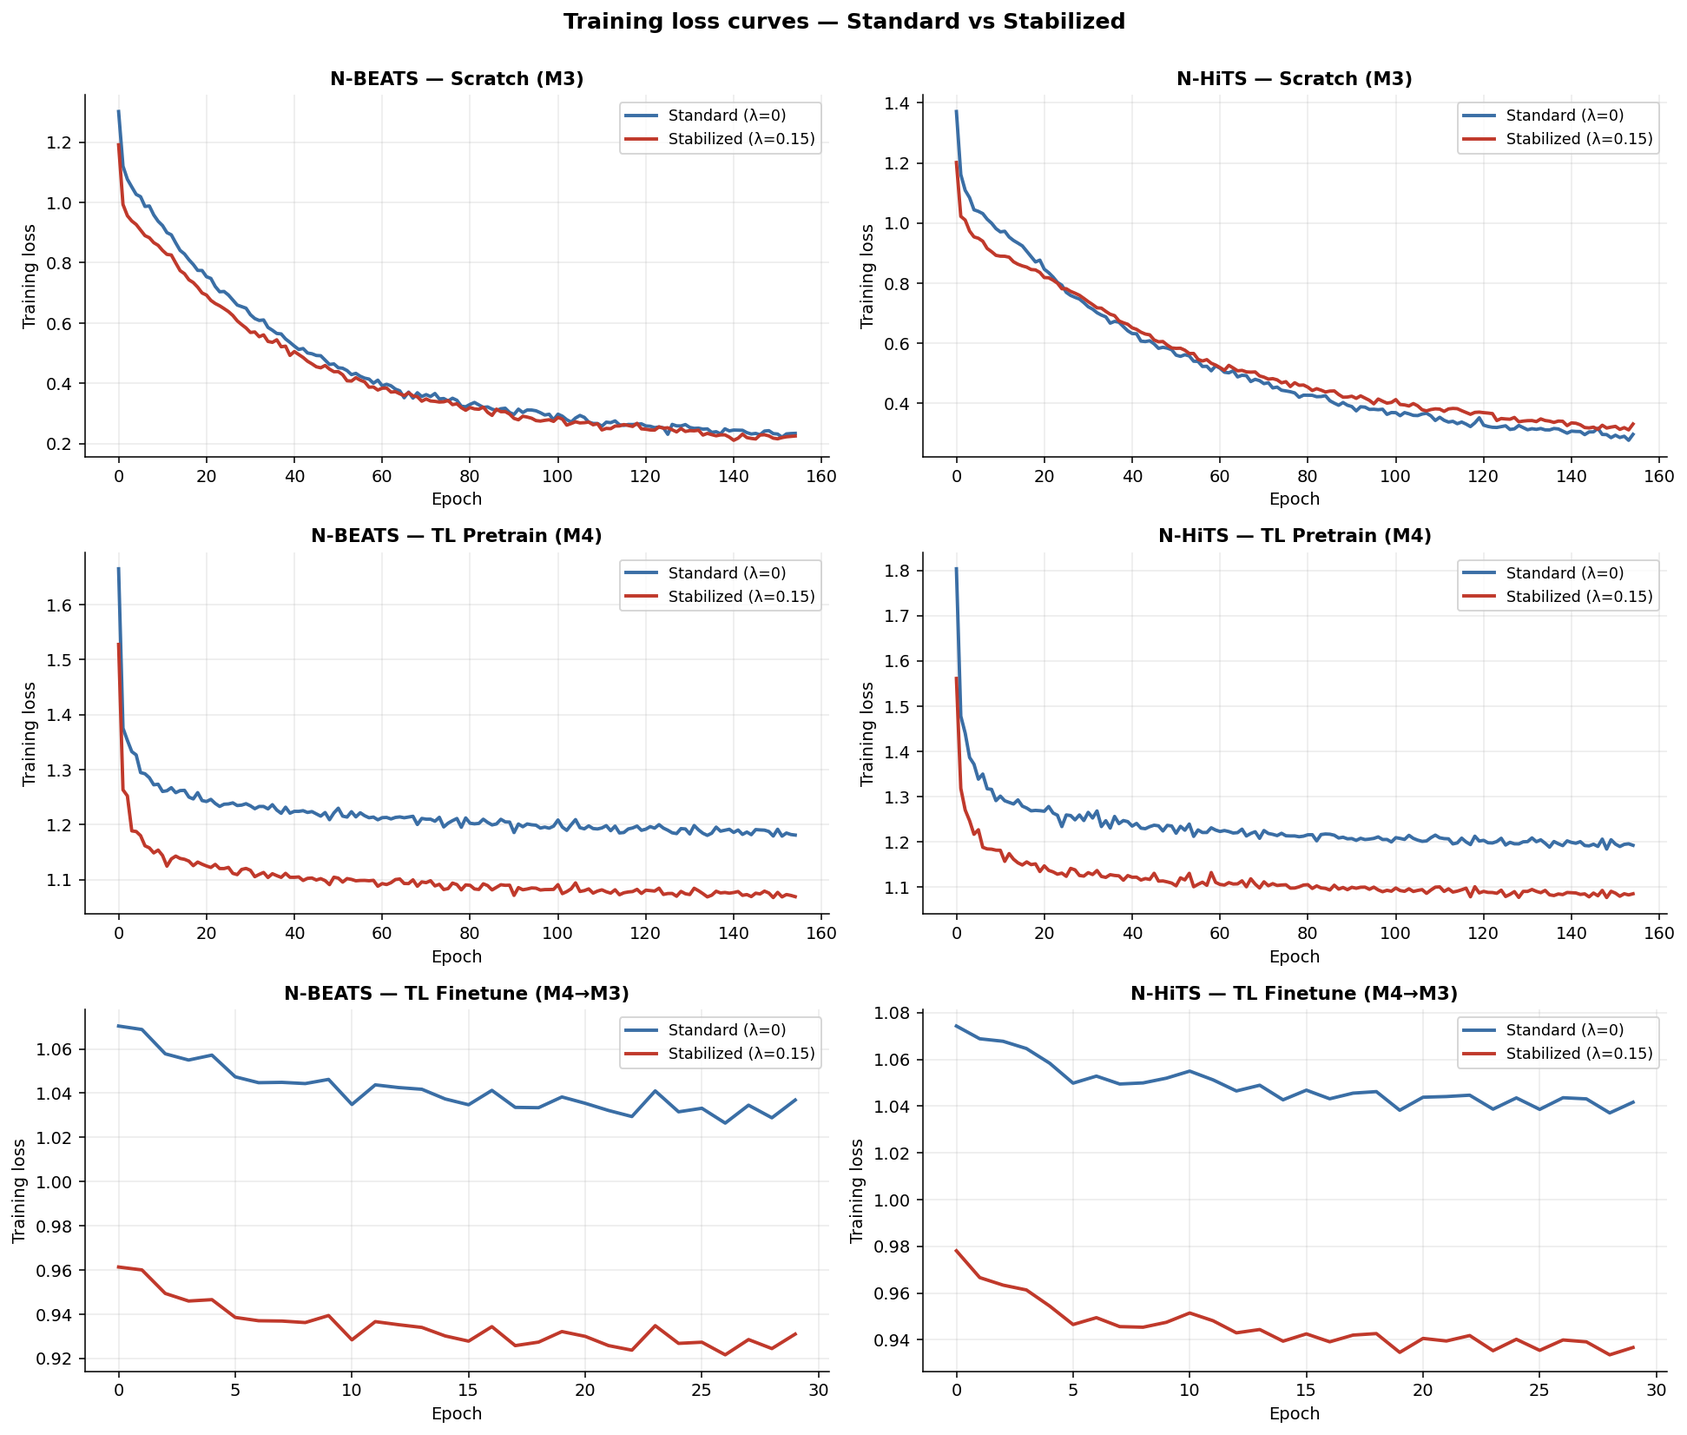
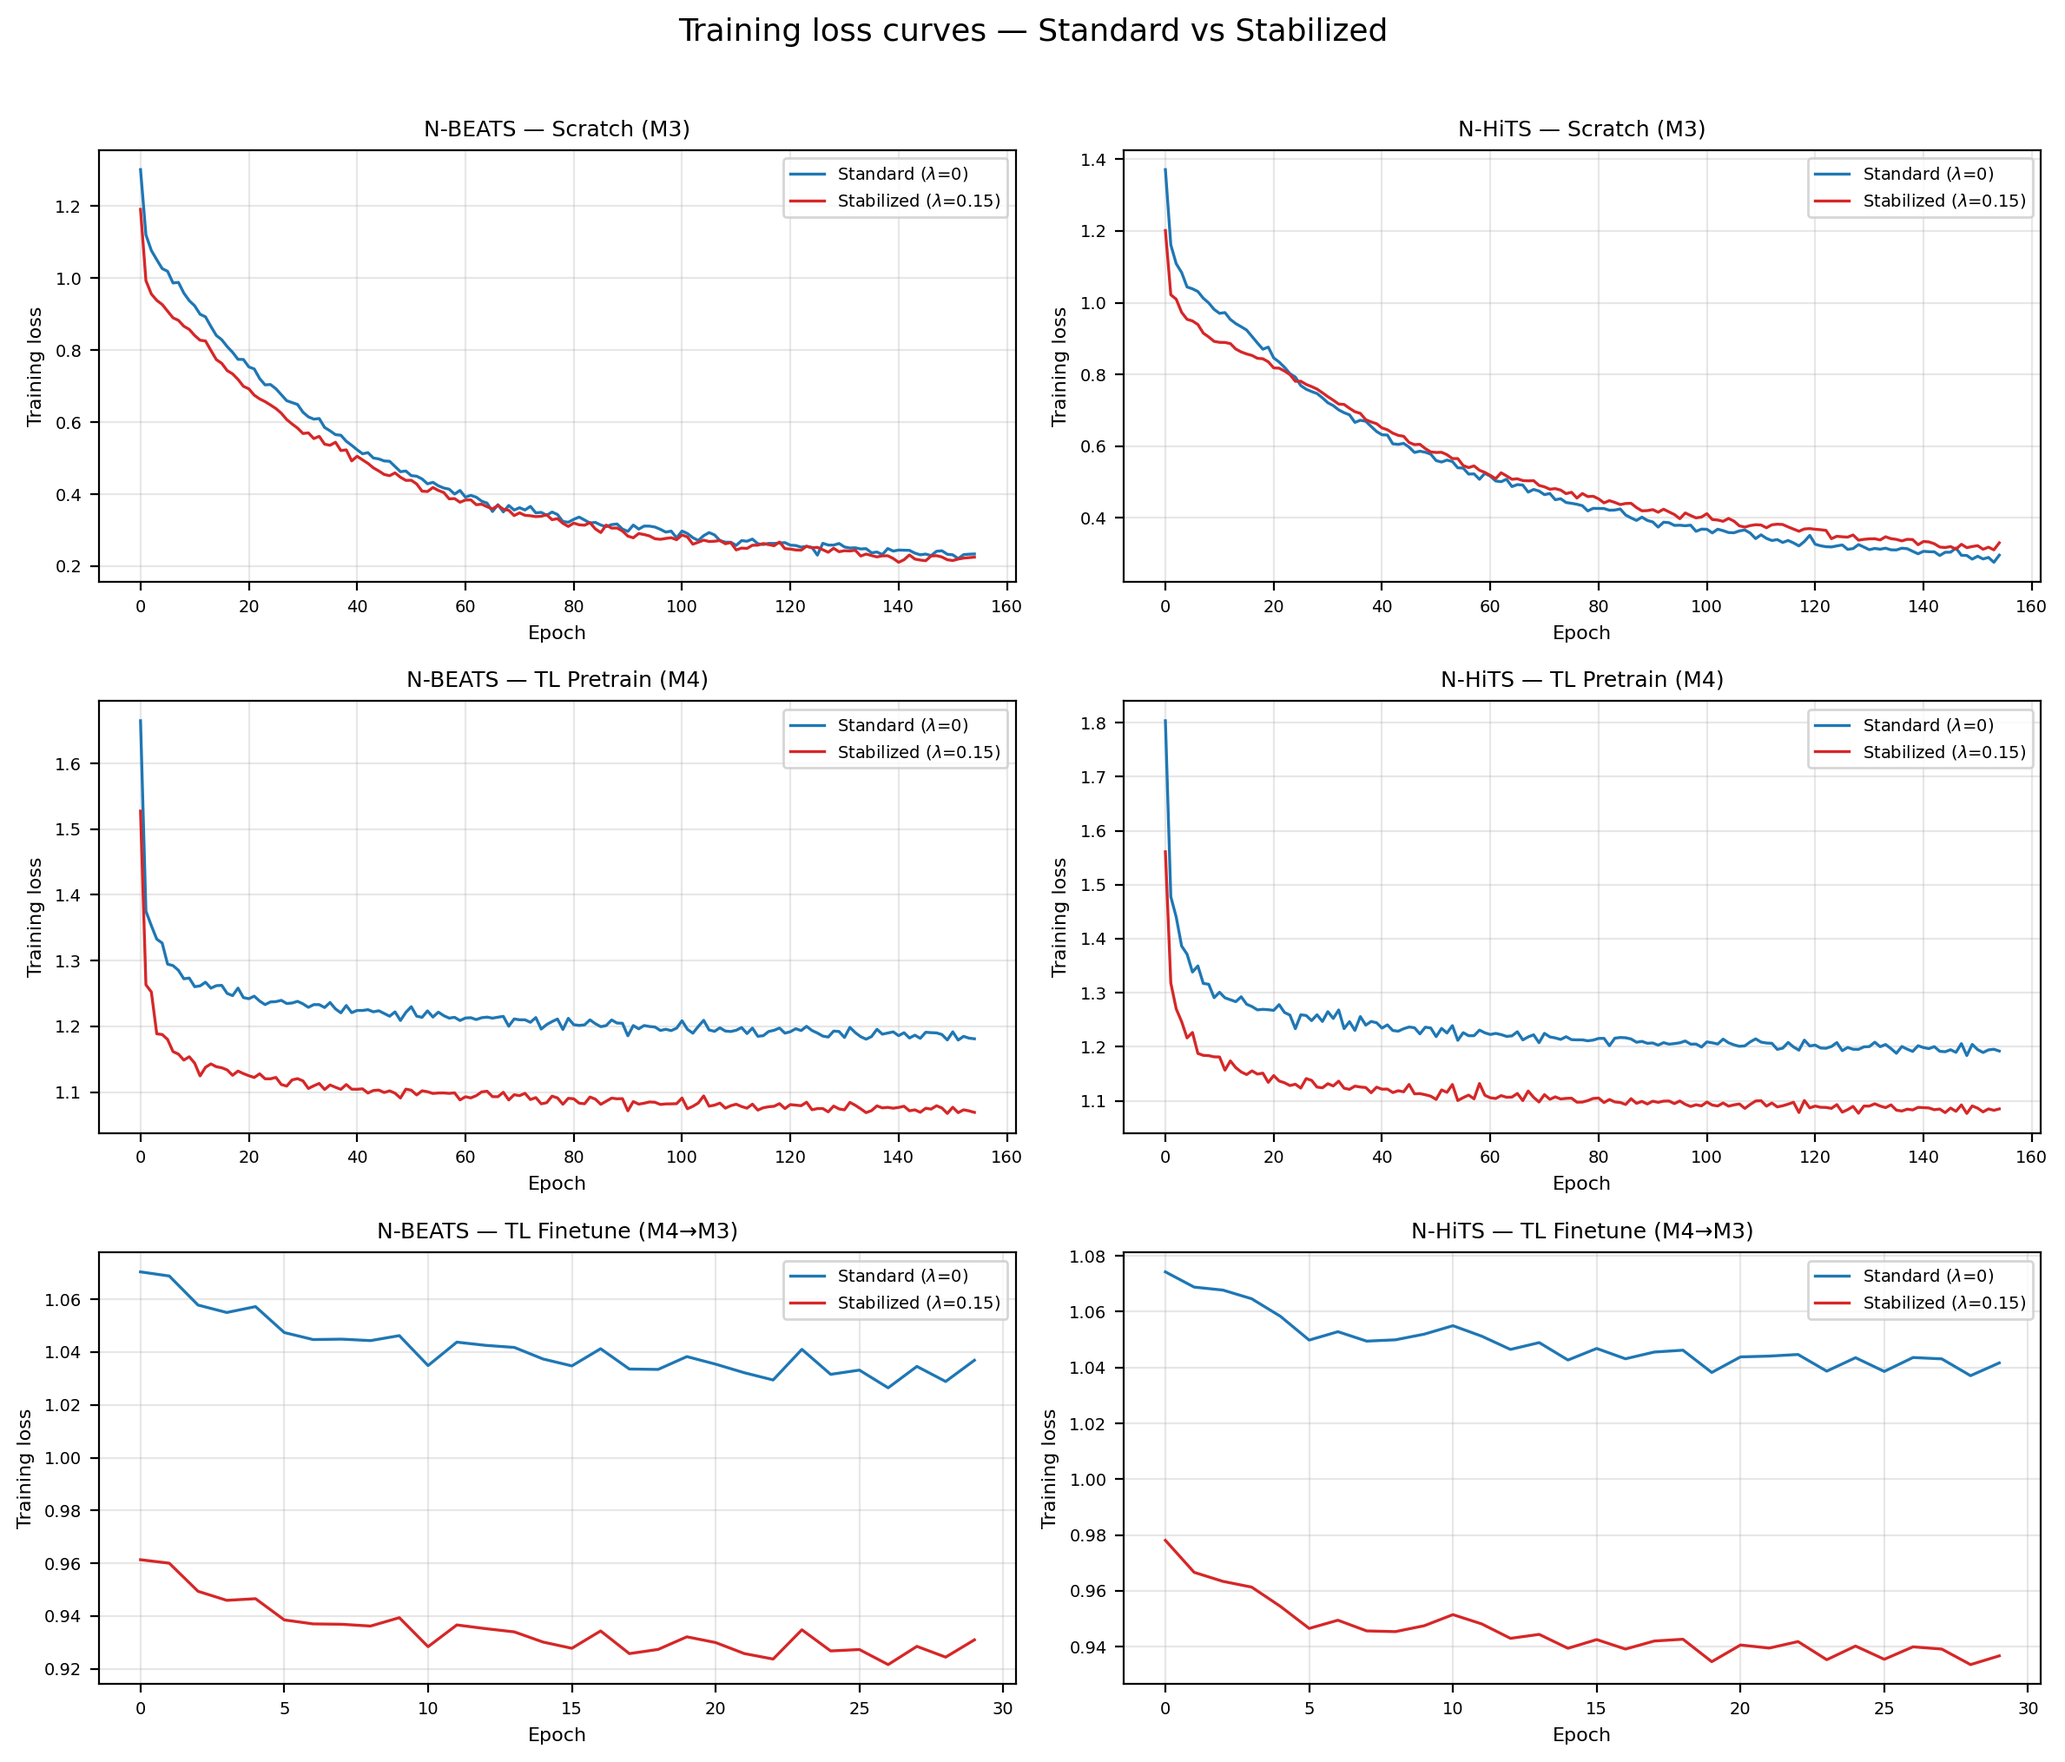
B1: add reproducing scripts for all 4 orphaned thesis figures
fig_training_loss.png        <- generate_training_loss_fig.py
fig_loss_decomposition.png   <- generate_loss_decomposition_fig.py
fig_validation_curves.png    <- generate_validation_curves_fig.py
fig_mcb_critical_difference.png <- generate_mcb_cd_fig.py

All scripts read from committed CSVs (loss_curve_*.csv, val_curve_*.csv,
mcb_results.csv) — no re-training needed. Figures regenerated to confirm
reproducibility; layout/data identical to originals.

diff --git a/NBEATSS_thesis/generate_mcb_cd_fig.py b/NBEATSS_thesis/generate_mcb_cd_fig.py
@@ -1,0 +1,90 @@
+"""
+Reads mcb_results.csv (committed) and produces fig_mcb_critical_difference.png:
+2x2 grid of MCB Critical Difference plots for sMAPE, RMSSE, sMAPC, RMSSC.
+Methods sorted by mean_rank (best = lowest rank, plotted at top).
+Red: tied with best (within CD). Blue: not tied.
+"""
+import csv
+from pathlib import Path
+import matplotlib
+matplotlib.use('Agg')
+import matplotlib.pyplot as plt
+import matplotlib.patches as mpatches
+
+BASE = Path(__file__).parent
+OUT = BASE / "fig_mcb_critical_difference.png"
+MCB_CSV = BASE / "mcb_results.csv"
+
+METRICS = ["sMAPE", "RMSSE", "sMAPC", "RMSSC"]
+GRID = [(0, 0), (0, 1), (1, 0), (1, 1)]
+
+
+def load_mcb(metric):
+    rows = []
+    with open(MCB_CSV) as f:
+        for r in csv.DictReader(f):
+            if r["metric"] == metric:
+                rows.append({
+                    "method": r["method"],
+                    "mean_rank": float(r["mean_rank"]),
+                    "diff_from_best": float(r["diff_from_best"]),
+                    "tied_with_best": r["tied_with_best"].strip().lower() == "true",
+                    "CD": float(r["CD"]),
+                    "N": int(r["N"]),
+                    "k": int(r["k"]),
+                })
+    rows.sort(key=lambda x: x["mean_rank"])
+    return rows
+
+
+def plot_cd(ax, rows, metric):
+    cd = rows[0]["CD"]
+    n = rows[0]["N"]
+    k = rows[0]["k"]
+    best_rank = rows[0]["mean_rank"]
+
+    ax.set_title(f"{metric}  (CD = {cd:.4f}, α = 0.05, N = {n:,}, k = {k})", fontsize=8.5)
+    ax.set_xlabel("Mean rank (lower is better)", fontsize=8)
+    ax.tick_params(labelsize=7)
+    ax.yaxis.set_visible(False)
+    ax.spines["left"].set_visible(False)
+    ax.spines["right"].set_visible(False)
+    ax.spines["top"].set_visible(False)
+
+    color_tied = "#d62728"
+    color_other = "#1f77b4"
+
+    y_positions = list(range(len(rows) - 1, -1, -1))
+    for i, row in enumerate(rows):
+        y = y_positions[i]
+        color = color_tied if row["tied_with_best"] else color_other
+        ax.plot(row["mean_rank"], y, "o", color=color, markersize=6, zorder=3)
+        ax.plot([row["mean_rank"] - cd / 2, row["mean_rank"] + cd / 2],
+                [y, y], "-", color=color, linewidth=1.5, alpha=0.7)
+        ax.text(row["mean_rank"], y + 0.35, row["method"],
+                ha="center", va="bottom", fontsize=6.5)
+
+    ax.axvline(best_rank, color="green", linewidth=1, linestyle="--", alpha=0.6,
+               label=f"Best = {best_rank:.2f}")
+    ax.axvline(best_rank + cd, color="orange", linewidth=1, linestyle="--", alpha=0.6,
+               label=f"Best + CD = {best_rank + cd:.2f}")
+    ax.legend(fontsize=6.5, loc="lower right")
+    ax.grid(axis="x", alpha=0.25)
+
+    margin = cd * 1.5
+    all_ranks = [r["mean_rank"] for r in rows]
+    ax.set_xlim(min(all_ranks) - margin, max(all_ranks) + margin)
+    ax.set_ylim(-1, len(rows) + 0.5)
+
+
+fig, axes = plt.subplots(2, 2, figsize=(14, 10))
+fig.suptitle("MCB Critical Difference Plots — All Methods (12 conditions)", fontsize=12)
+
+for metric, (r, c) in zip(METRICS, GRID):
+    rows = load_mcb(metric)
+    plot_cd(axes[r][c], rows, metric)
+
+plt.tight_layout()
+plt.savefig(str(OUT), dpi=200, bbox_inches="tight", facecolor="white")
+plt.close()
+print(f"Saved: {OUT}")

diff --git a/NBEATSS_thesis/generate_validation_curves_fig.py b/NBEATSS_thesis/generate_validation_curves_fig.py
@@ -1,0 +1,75 @@
+"""
+Reads val_curve_*_validation.csv (committed W&B exports) and produces
+fig_validation_curves.png:
+2x2 grid — N-BEATS Scratch Stabilized (left) and N-HiTS Scratch Stabilized (right).
+Top row:    Training loss vs Validation loss (total).
+Bottom row: Validation loss decomposition (accuracy, stability, total).
+Title: "Training vs Validation Loss — Scratch Stabilized (155 epochs, eval_mode=validation)"
+"""
+import csv
+from pathlib import Path
+import matplotlib
+matplotlib.use('Agg')
+import matplotlib.pyplot as plt
+
+BASE = Path(__file__).parent
+OUT = BASE / "fig_validation_curves.png"
+
+MODELS = [
+    ("N-BEATS Scratch Stabilized", "val_curve_NBEATS_Scratch_Stabilized_validation.csv"),
+    ("N-HiTS Scratch Stabilized",  "val_curve_NHITS_Scratch_Stabilized_validation.csv"),
+]
+
+
+def load_val_curve(csv_path):
+    train_ep, train_loss = [], []
+    val_ep, val_total, val_acc, val_stab = [], [], [], []
+    with open(csv_path) as f:
+        for row in csv.DictReader(f):
+            if row.get("tloss_epoch", "").strip():
+                train_ep.append(int(float(row["epoch"])))
+                train_loss.append(float(row["tloss_epoch"]))
+            if row.get("vloss", "").strip():
+                val_ep.append(int(float(row["epoch"])))
+                val_total.append(float(row["vloss"]))
+                val_acc.append(float(row["vloss_a"]))
+                val_stab.append(float(row["vloss_s"]))
+    return train_ep, train_loss, val_ep, val_total, val_acc, val_stab
+
+
+fig, axes = plt.subplots(2, 2, figsize=(12, 9))
+fig.suptitle(
+    "Training vs Validation Loss — Scratch Stabilized (155 epochs, eval_mode=validation)",
+    fontsize=11, y=1.01
+)
+
+for col, (model_name, csv_name) in enumerate(MODELS):
+    train_ep, train_loss, val_ep, val_total, val_acc, val_stab = load_val_curve(BASE / csv_name)
+
+    # Top: training vs validation total loss
+    ax = axes[0][col]
+    ax.set_title(f"{model_name}\nTraining vs Validation", fontsize=9)
+    ax.plot(train_ep, train_loss, color="#1f77b4", linewidth=1.2, label="Training loss")
+    ax.plot(val_ep,   val_total,  color="#d62728", linewidth=1.2, label="Validation loss")
+    ax.set_xlabel("Epoch", fontsize=8)
+    ax.set_ylabel("Total loss", fontsize=8)
+    ax.tick_params(labelsize=7)
+    ax.legend(fontsize=7)
+    ax.grid(True, alpha=0.3)
+
+    # Bottom: validation decomposition
+    ax = axes[1][col]
+    ax.set_title(f"{model_name}\nValidation loss decomposition", fontsize=9)
+    ax.plot(val_ep, val_acc,   color="#1f77b4", linewidth=1.2, label="Validation accuracy loss")
+    ax.plot(val_ep, val_stab,  color="#d62728", linewidth=1.2, label="Validation stability loss")
+    ax.plot(val_ep, val_total, color="black",   linewidth=1.2, linestyle="--", label="Validation total loss")
+    ax.set_xlabel("Epoch", fontsize=8)
+    ax.set_ylabel("Validation loss", fontsize=8)
+    ax.tick_params(labelsize=7)
+    ax.legend(fontsize=7)
+    ax.grid(True, alpha=0.3)
+
+plt.tight_layout()
+plt.savefig(str(OUT), dpi=200, bbox_inches="tight", facecolor="white")
+plt.close()
+print(f"Saved: {OUT}")

diff --git a/NBEATSS_thesis/generate_training_loss_fig.py b/NBEATSS_thesis/generate_training_loss_fig.py
@@ -1,0 +1,69 @@
+"""
+Reads loss_curve_*.csv (committed W&B exports) and produces fig_training_loss.png:
+2x3 grid — Standard (lambda=0) vs Stabilized (lambda=0.15) training loss per epoch.
+Rows: Scratch (M3), TL Pretrain (M4), TL Finetune (M4->M3).
+Columns: N-BEATS (left), N-HiTS (right).
+"""
+import csv
+from pathlib import Path
+import matplotlib
+matplotlib.use('Agg')
+import matplotlib.pyplot as plt
+
+BASE = Path(__file__).parent
+OUT = BASE / "fig_training_loss.png"
+
+PANELS = [
+    # (row, col, title, nbeats_std_csv, nbeats_stab_csv, nhits_std_csv, nhits_stab_csv)
+    (0, 0, "N-BEATS — Scratch (M3)",
+     "loss_curve_NBEATS_Scratch_Standard.csv",
+     "loss_curve_NBEATS_Scratch_Stabilized.csv"),
+    (0, 1, "N-HiTS — Scratch (M3)",
+     "loss_curve_NHITS_Scratch_Standard.csv",
+     "loss_curve_NHITS_Scratch_Stabilized.csv"),
+    (1, 0, "N-BEATS — TL Pretrain (M4)",
+     "loss_curve_NBEATS_TL_Standard_Pretrain.csv",
+     "loss_curve_NBEATS_TL_Stabilized_Pretrain.csv"),
+    (1, 1, "N-HiTS — TL Pretrain (M4)",
+     "loss_curve_NHITS_TL_Standard_Pretrain.csv",
+     "loss_curve_NHITS_TL_Stabilized_Pretrain.csv"),
+    (2, 0, "N-BEATS — TL Finetune (M4→M3)",
+     "loss_curve_NBEATS_TL_Standard_Finetune.csv",
+     "loss_curve_NBEATS_TL_Stabilized_Finetune.csv"),
+    (2, 1, "N-HiTS — TL Finetune (M4→M3)",
+     "loss_curve_NHITS_TL_Standard_Finetune.csv",
+     "loss_curve_NHITS_TL_Stabilized_Finetune.csv"),
+]
+
+
+def load_epoch_loss(csv_path, col="tloss_epoch"):
+    epochs, losses = [], []
+    with open(csv_path) as f:
+        for row in csv.DictReader(f):
+            v = row.get(col, "").strip()
+            if v:
+                epochs.append(int(float(row["epoch"])))
+                losses.append(float(v))
+    return epochs, losses
+
+
+fig, axes = plt.subplots(3, 2, figsize=(12, 10))
+fig.suptitle("Training loss curves — Standard vs Stabilized", fontsize=13, y=1.01)
+
+for row, col, title, std_csv, stab_csv in PANELS:
+    ax = axes[row][col]
+    ep_std, lo_std = load_epoch_loss(BASE / std_csv)
+    ep_stab, lo_stab = load_epoch_loss(BASE / stab_csv)
+    ax.plot(ep_std, lo_std, color="#1f77b4", linewidth=1.2, label=r"Standard ($\lambda$=0)")
+    ax.plot(ep_stab, lo_stab, color="#d62728", linewidth=1.2, label=r"Stabilized ($\lambda$=0.15)")
+    ax.set_title(title, fontsize=9)
+    ax.set_xlabel("Epoch", fontsize=8)
+    ax.set_ylabel("Training loss", fontsize=8)
+    ax.tick_params(labelsize=7)
+    ax.legend(fontsize=7, loc="upper right")
+    ax.grid(True, alpha=0.3)
+
+plt.tight_layout()
+plt.savefig(str(OUT), dpi=200, bbox_inches="tight", facecolor="white")
+plt.close()
+print(f"Saved: {OUT}")

diff --git a/NBEATSS_thesis/generate_loss_decomposition_fig.py b/NBEATSS_thesis/generate_loss_decomposition_fig.py
@@ -1,0 +1,60 @@
+"""
+Reads loss_curve_*_Stabilized*.csv (committed W&B exports) and produces
+fig_loss_decomposition.png:
+2x3 grid — Stabilized variants only: Accuracy loss, Stability loss, Total loss per epoch.
+Row 0: NBEATS (Scratch, TL Pretrain, TL Finetune).
+Row 1: NHITS  (Scratch, TL Pretrain, TL Finetune).
+"""
+import csv
+from pathlib import Path
+import matplotlib
+matplotlib.use('Agg')
+import matplotlib.pyplot as plt
+
+BASE = Path(__file__).parent
+OUT = BASE / "fig_loss_decomposition.png"
+
+PANELS = [
+    # (row, col, title, csv_name)
+    (0, 0, "NBEATS Scratch Stabilized",         "loss_curve_NBEATS_Scratch_Stabilized.csv"),
+    (0, 1, "NBEATS TL Stabilized Pretrain",      "loss_curve_NBEATS_TL_Stabilized_Pretrain.csv"),
+    (0, 2, "NBEATS TL Stabilized Finetune",      "loss_curve_NBEATS_TL_Stabilized_Finetune.csv"),
+    (1, 0, "NHITS Scratch Stabilized",           "loss_curve_NHITS_Scratch_Stabilized.csv"),
+    (1, 1, "NHITS TL Stabilized Pretrain",       "loss_curve_NHITS_TL_Stabilized_Pretrain.csv"),
+    (1, 2, "NHITS TL Stabilized Finetune",       "loss_curve_NHITS_TL_Stabilized_Finetune.csv"),
+]
+
+
+def load_decomposition(csv_path):
+    epochs, acc, stab, total = [], [], [], []
+    with open(csv_path) as f:
+        for row in csv.DictReader(f):
+            if not row.get("tloss_epoch", "").strip():
+                continue
+            epochs.append(int(float(row["epoch"])))
+            acc.append(float(row["tloss_a_epoch"]))
+            stab.append(float(row["tloss_s_epoch"]))
+            total.append(float(row["tloss_epoch"]))
+    return epochs, acc, stab, total
+
+
+fig, axes = plt.subplots(2, 3, figsize=(14, 8))
+fig.suptitle("Stabilized loss decomposition (accuracy + stability)", fontsize=12, y=1.01)
+
+for row, col, title, csv_name in PANELS:
+    ax = axes[row][col]
+    epochs, acc, stab, total = load_decomposition(BASE / csv_name)
+    ax.plot(epochs, acc,   color="#1f77b4", linewidth=1.2, label="Accuracy loss")
+    ax.plot(epochs, stab,  color="#d62728", linewidth=1.2, label="Stability loss")
+    ax.plot(epochs, total, color="black",   linewidth=1.2, linestyle="--", label="Total loss")
+    ax.set_title(title, fontsize=9)
+    ax.set_xlabel("Epoch", fontsize=8)
+    ax.set_ylabel("Loss", fontsize=8)
+    ax.tick_params(labelsize=7)
+    ax.legend(fontsize=7, loc="upper right")
+    ax.grid(True, alpha=0.3)
+
+plt.tight_layout()
+plt.savefig(str(OUT), dpi=200, bbox_inches="tight", facecolor="white")
+plt.close()
+print(f"Saved: {OUT}")
